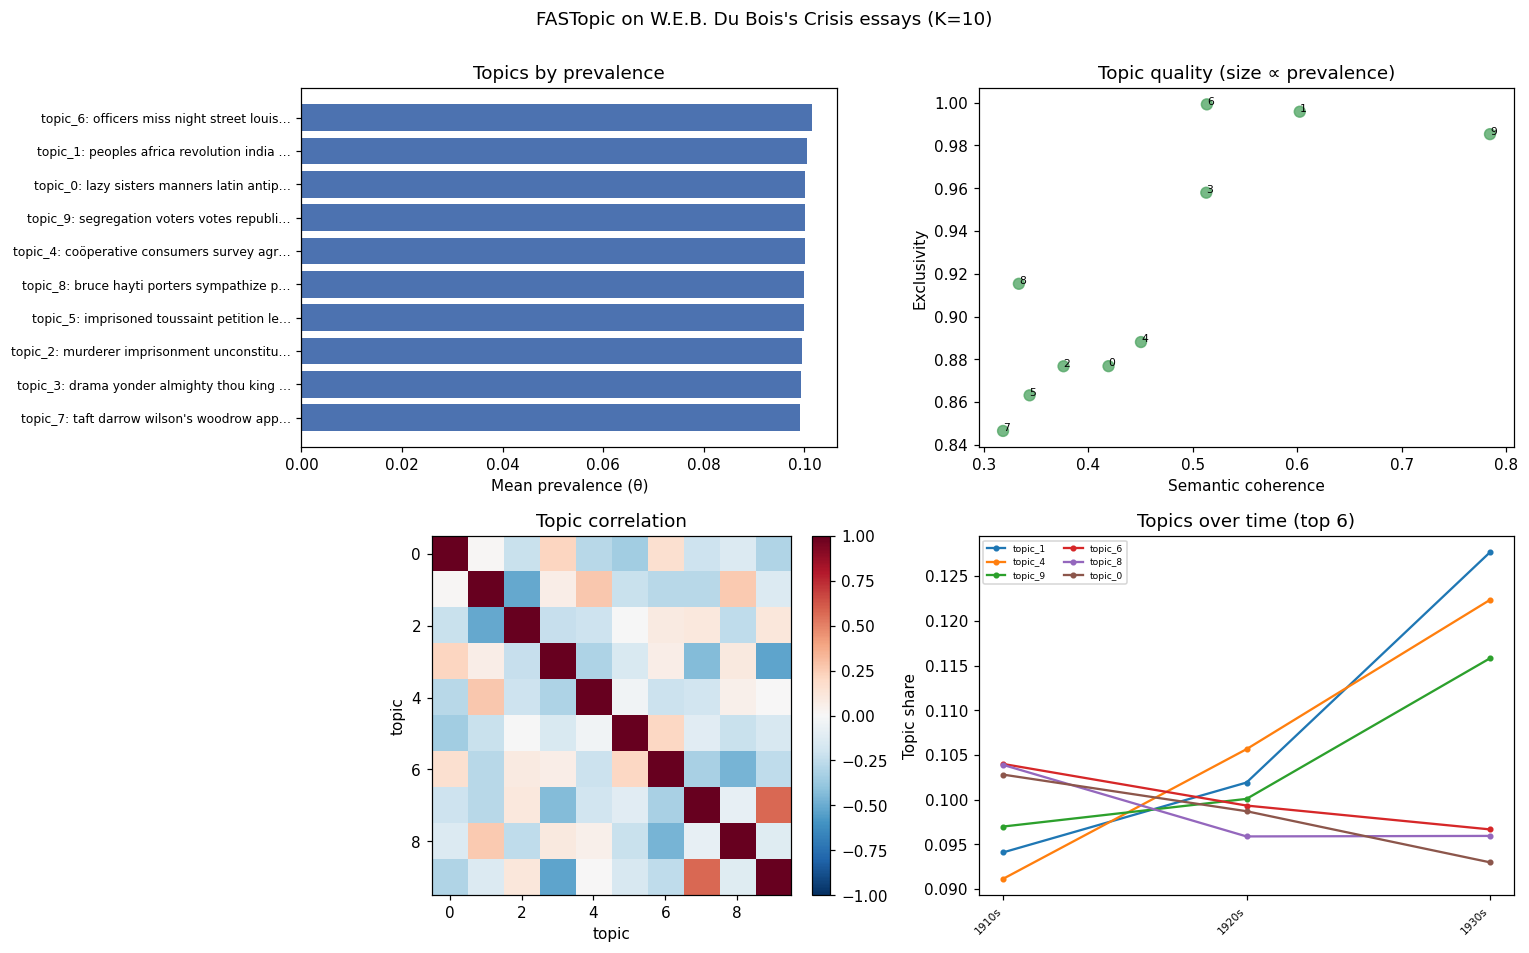
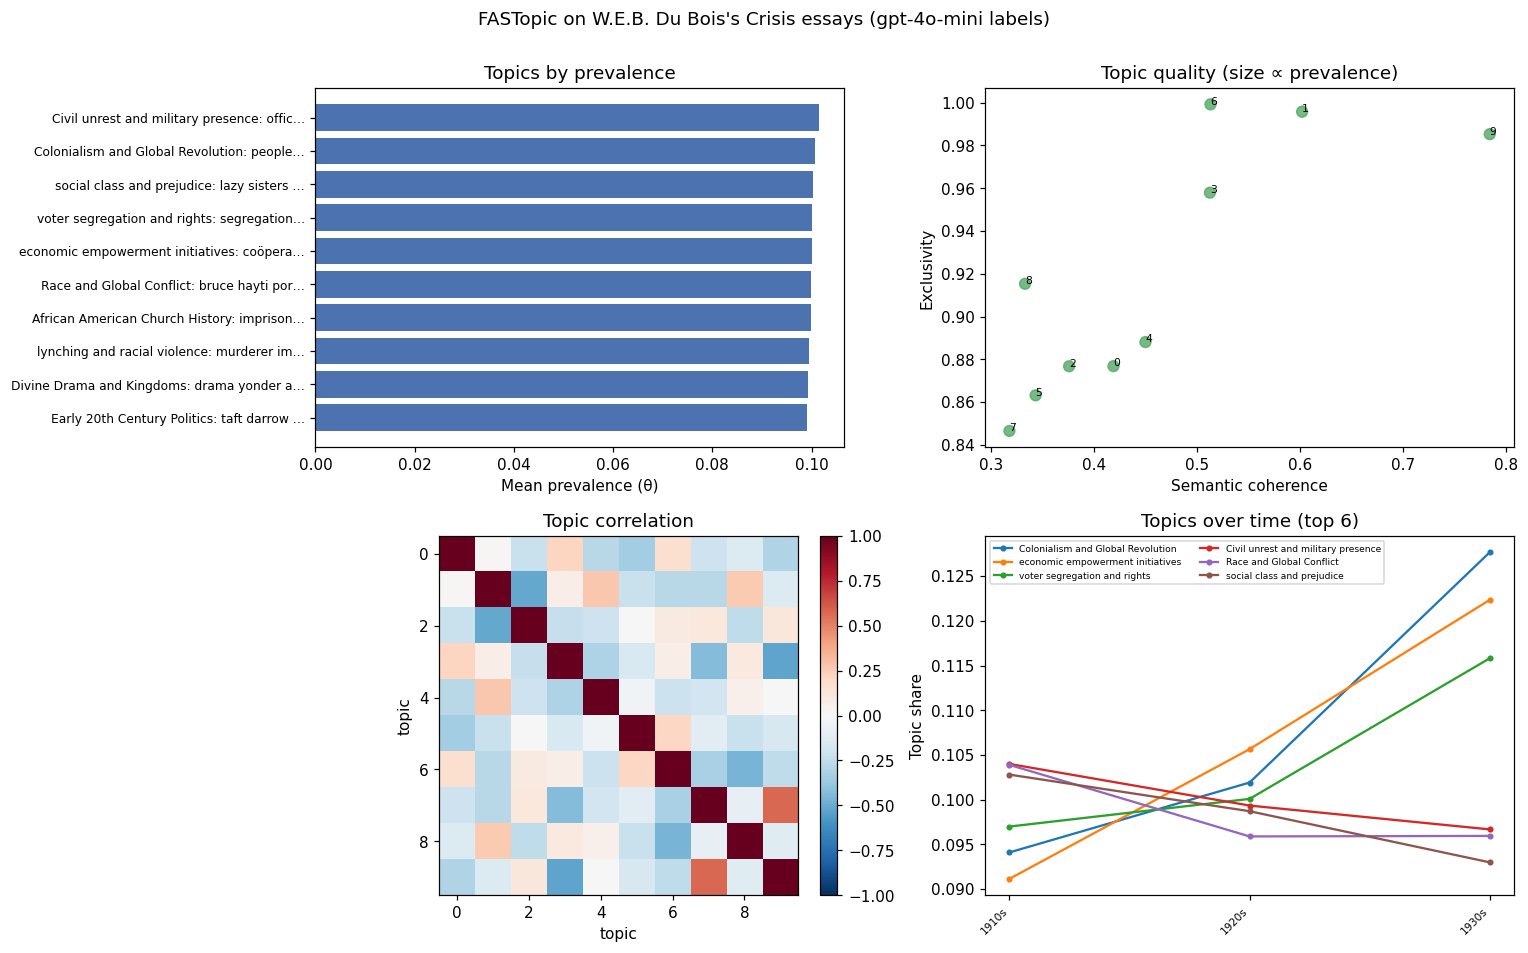
labeling: key= override; run the LLM example for real (OpenAI labels)
llm_backend and llm_embed gain a key= argument. By default the key is resolved by
llm itself (a stored `llm keys` value, else the provider env var such as
OPENAI_API_KEY); key= hands one in explicitly. Local models need no key.

With this, the Du Bois example is now genuinely end to end: the topics are labelled
by gpt-4o-mini (key from the environment) and the rendered figure carries those
real labels, not the default top-word labels. Updated the page to show the actual
labels and document the key handling, and defaulted the companion script to
gpt-4o-mini with the local-model path noted.

diff --git a/tests/test_labeling.py b/tests/test_labeling.py
@@ -172,3 +172,37 @@ def test_llm_embed_cache_embeds_once(tmp_path, monkeypatch):
     # Different texts miss the cache and recompute.
     topica.llm_embed(["alpha", "beta", "delta"], model="x", cache=cache)
     assert calls["n"] == 2
+
+
+def test_llm_backend_passes_explicit_key(monkeypatch):
+    import sys
+    import types
+
+    seen = {}
+
+    class _Resp:
+        def text(self):
+            return "LABEL"
+
+    class _Model:
+        def __init__(self):
+            self.key = None
+
+        def prompt(self, prompt, **kw):
+            seen["key_at_call"] = self.key
+            return _Resp()
+
+    obj = _Model()
+    fake = types.ModuleType("llm")
+    fake.get_model = lambda name: obj
+    monkeypatch.setitem(sys.modules, "llm", fake)
+
+    # Explicit key is set on the model; default (None) leaves llm to resolve it.
+    call = topica.llm_backend("gpt-4o-mini", key="sk-test-123")
+    assert obj.key == "sk-test-123"
+    assert call("hi") == "LABEL"
+    assert seen["key_at_call"] == "sk-test-123"
+
+    obj.key = None
+    topica.llm_backend("gpt-4o-mini")  # no key -> untouched, llm resolves from env
+    assert obj.key is None

diff --git a/examples/llm_topics.py b/examples/llm_topics.py
@@ -2,14 +2,15 @@
 
 Uses topica.llm_embed to produce document embeddings (cached so the corpus is
 embedded once), fits FASTopic, labels the topics with an LLM, and writes a
-plot_report figure. Reproducible with a local embedder and a local labeling model,
-so no API key is required:
+plot_report figure.
 
-    pip install "topica[llm,viz]" llm-sentence-transformers llm-ollama
+    pip install "topica[llm,viz]" llm-sentence-transformers
     python examples/llm_topics.py
 
-Swap the model names for OpenAI ("text-embedding-3-small", "gpt-4o-mini") if you
-prefer the hosted versions.
+The embedder is a local sentence-transformers model (offline, no key). The labeler
+defaults to OpenAI gpt-4o-mini, whose key is read from OPENAI_API_KEY (or pass
+key=... to llm_backend). For a fully local, key-free run, install llm-ollama and
+set LABEL_MODEL to a pulled model such as "llama3.2".
 """
 
 import csv
@@ -23,7 +24,7 @@ CRISIS = os.path.join(ROOT, "examples", "dubois_crisis.csv")
 STOP = os.path.join(ROOT, "examples", "english-stoplist.txt")
 
 EMBED_MODEL = "sentence-transformers/all-MiniLM-L6-v2"  # local, offline
-LABEL_MODEL = "llama3.2"                                 # local via llm-ollama
+LABEL_MODEL = "gpt-4o-mini"                             # OpenAI; key from OPENAI_API_KEY
 
 
 def main():

diff --git a/python/topica/labeling.py b/python/topica/labeling.py
@@ -60,14 +60,17 @@ def topic_label_prompts(model, texts=None, *, n_words=12, n_docs=3, max_chars=30
     return prompts
 
 
-def llm_backend(model="gpt-4o-mini", *, system=None, **options):
+def llm_backend(model="gpt-4o-mini", *, key=None, system=None, **options):
     """A ``str -> str`` callable backed by the `llm` library, for the ``call=``
     argument of :func:`llm_topic_labels`.
 
     ``model`` names any model ``llm`` can reach — OpenAI, Anthropic, or local
-    models through plugins such as ``llm-ollama``. ``options`` pass through to
-    ``llm`` (e.g. ``temperature=0`` for reproducible labels where the provider
-    supports it). Requires the optional ``llm`` package (``pip install llm`` or
+    models through plugins such as ``llm-ollama``. By default the API key is
+    resolved by ``llm`` itself: a stored ``llm keys`` value, else the provider's
+    environment variable (``OPENAI_API_KEY`` for OpenAI). Pass ``key`` to override
+    that with an explicit key. ``options`` pass through to ``llm`` (e.g.
+    ``temperature=0`` for reproducible labels where the provider supports it).
+    Requires the optional ``llm`` package (``pip install llm`` or
     ``pip install "topica[llm]"``).
     """
     try:
@@ -78,6 +81,8 @@ def llm_backend(model="gpt-4o-mini", *, system=None, **options):
             '(pip install llm, or pip install "topica[llm]").'
         ) from e
     obj = _llm.get_model(model)
+    if key is not None:
+        obj.key = key
 
     def call(prompt: str) -> str:
         return obj.prompt(prompt, system=system, **options).text().strip()

diff --git a/python/topica/embedding.py b/python/topica/embedding.py
@@ -190,7 +190,7 @@ def load_embeddings(path, *, with_meta=False):
         return emb, meta
 
 
-def llm_embed(texts, model="text-embedding-3-small", *, batch=True, cache=None):
+def llm_embed(texts, model="text-embedding-3-small", *, key=None, batch=True, cache=None):
     """Embed ``texts`` with the `llm` library's embedding models, as a dense
     ``(n, dim)`` float array.
 
@@ -202,6 +202,10 @@ def llm_embed(texts, model="text-embedding-3-small", *, batch=True, cache=None):
     model such as ``"sentence-transformers/all-MiniLM-L6-v2"`` via the
     ``llm-sentence-transformers`` plugin (no API, runs offline). Pass document
     texts for document embeddings, or the vocabulary for word embeddings.
+
+    By default the API key (for hosted embedders) is resolved by ``llm`` itself: a
+    stored ``llm keys`` value, else the provider's environment variable
+    (``OPENAI_API_KEY`` for OpenAI). Pass ``key`` to override it explicitly.
 
     Embeddings are costly, so pass ``cache=path`` to embed once and reuse: if the
     file exists and was saved for the same ``texts``, it is loaded and no model is
@@ -228,6 +232,8 @@ def llm_embed(texts, model="text-embedding-3-small", *, batch=True, cache=None):
             '(pip install llm, or pip install "topica[llm]").'
         ) from e
     em = _llm.get_embedding_model(model)
+    if key is not None:
+        em.key = key
     vecs = list(em.embed_multi(items)) if batch else [em.embed(t) for t in items]
     arr = np.asarray(vecs, dtype=float)
     if cache is not None:

diff --git a/docs/examples/llm-topics.md b/docs/examples/llm-topics.md
@@ -73,40 +73,55 @@ for t in range(model.num_topics):
 ## 4. Name the topics with an LLM
 
 topica is the plumbing: it builds a prompt from each topic's top words and
-representative essays, and you bring the model. Here a local `ollama` model labels
-them; `temperature=0` keeps the labels stable. `set_labels=True` stores them so
-they flow into `topic_info` and the report.
+representative essays, and you bring the model. `temperature=0` keeps the labels
+stable, and `set_labels=True` stores them so they flow into `topic_info` and the
+report.
 
 ```python
-backend = topica.llm_backend("llama3.2", temperature=0)        # or "gpt-4o-mini"
+backend = topica.llm_backend("gpt-4o-mini", temperature=0)
 labels = topica.llm_topic_labels(model, texts, call=backend, set_labels=True)
+
+for t, label in enumerate(labels):
+    print(t, label)
 
 topica.topic_label_prompts(model, texts)[1]   # inspect exactly what the model saw
 ```
 
-This step needs a labeling model available through `llm` (a local one via
-`llm-ollama`, or a hosted one with an API key); the output labels are whatever
-your model returns. The deterministic descriptors (`label_topics`: FREX /
-probability / lift) remain the defensible naming for publication; the LLM labels
-are the readable shorthand. With `set_labels=True` they replace the default labels
-everywhere, including the report below.
+```
+0 social class and prejudice
+1 Colonialism and Global Revolution
+2 lynching and racial violence
+3 Divine Drama and Kingdoms
+4 economic empowerment initiatives
+5 African American Church History
+6 Civil unrest and military presence
+7 Early 20th Century Politics
+8 Race and Global Conflict
+9 voter segregation and rights
+```
+
+The key is resolved by `llm`: by default the `OPENAI_API_KEY` environment variable
+(or a stored `llm keys` value), or pass `llm_backend(..., key=...)` to hand one in.
+A local model works the same way — `llm_backend("llama3.2", ...)` with the
+`llm-ollama` plugin needs no key at all. The deterministic descriptors
+(`label_topics`: FREX / probability / lift) remain the defensible naming for
+publication; the LLM labels are the readable shorthand. With `set_labels=True` they
+replace the default labels everywhere, including the report below.
 
 ## 5. Report
 
 ```python
 fig = topica.plot_report(model, texts=docs, timestamps=decade, n=6,
-                         title="FASTopic on W.E.B. Du Bois's Crisis essays (K=10)")
+                         title="FASTopic on W.E.B. Du Bois's Crisis essays")
 fig.savefig("crisis_report.png", dpi=200)
 ```
 
-![A plot_report figure for the Du Bois Crisis essays: topic prevalence with top
-words, the coherence-vs-exclusivity quality plot, the topic correlation heatmap,
-and topic shares across the 1910s, 1920s, and 1930s.](../images/llm_workflow_report.png)
+![A plot_report figure for the Du Bois Crisis essays: topic prevalence labelled by
+gpt-4o-mini, the coherence-vs-exclusivity quality plot, the topic correlation
+heatmap, and topic shares across the 1910s, 1920s, and 1930s.](../images/llm_workflow_report.png)
 
-The figure above is the actual output of steps 1–3 and 5 (MiniLM embeddings, the
-FASTopic fit, real top words). It shows topica's **default** topic labels — each
-topic's top words — because the rendered figure was built without a labeling
-model; run step 4 with your own model to swap in readable names. The time panel
-reads as intellectual history: the Africa / Pan-African topic (1) and the
-economic-cooperation topic (4) climb steadily from the 1910s to the 1930s,
-tracking the arc of Du Bois's later writing.
+This figure is real output of the whole pipeline above — MiniLM embeddings, the
+FASTopic fit, and the `gpt-4o-mini` labels from step 4 (the labels appear because
+`set_labels=True` stored them). The time panel reads as intellectual history:
+*Colonialism and Global Revolution* and *economic empowerment initiatives* climb
+steadily from the 1910s to the 1930s, tracking the arc of Du Bois's later writing.